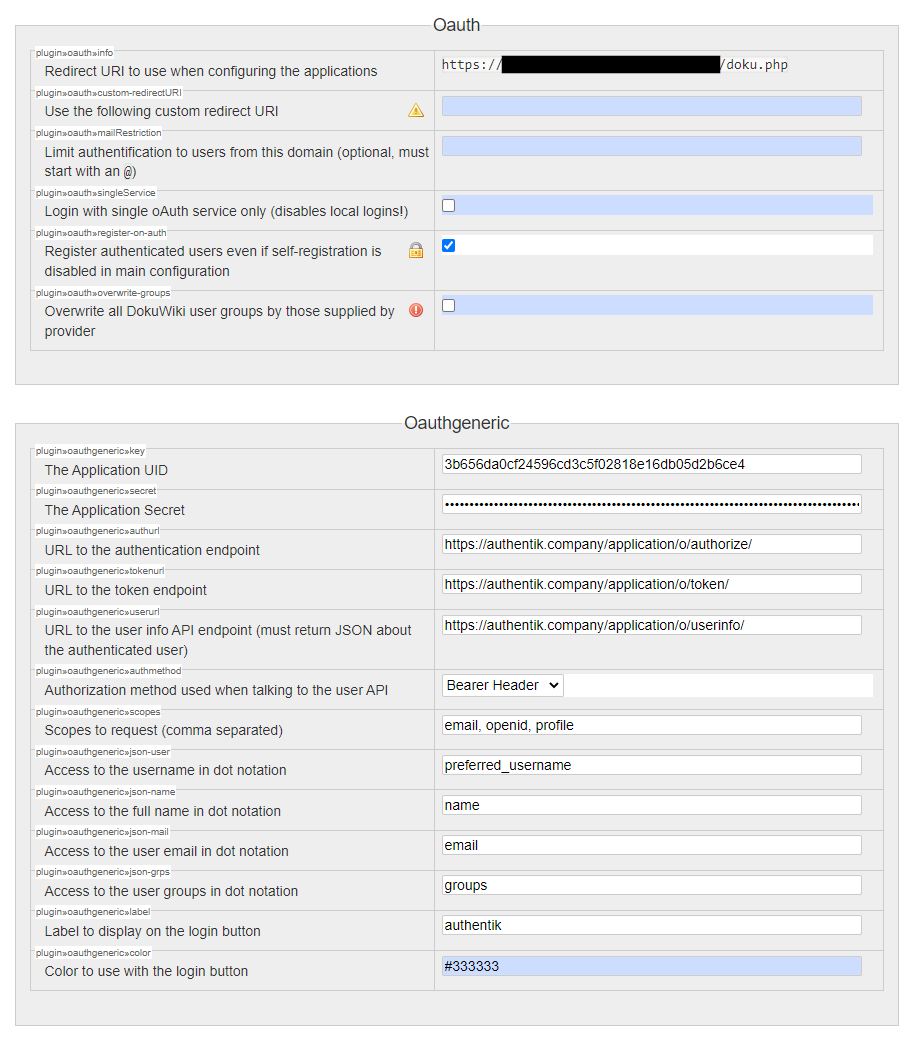
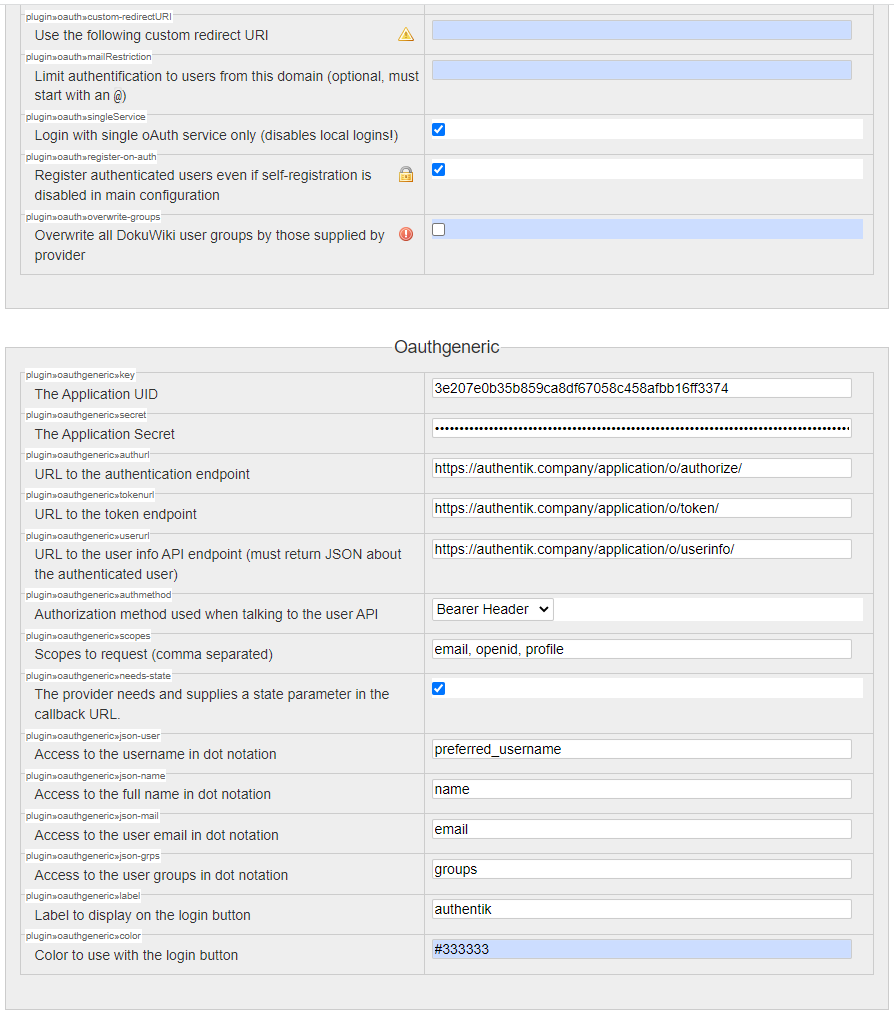
removed patch note since patch is upstream now

Changed region(s): [[0.0302, 0.336, 0.9966, 0.9468], [0.0, 0.0, 0.9966, 0.336], [0.9664, 0.3054, 0.9966, 0.336]]

diff --git a/website/integrations/services/dokuwiki/index.md b/website/integrations/services/dokuwiki/index.md
@@ -26,12 +26,6 @@ In DokuWiki, navigate to the _Extension Manager_ section in the _Administration_
 -   https://www.dokuwiki.org/plugin:oauth
 -   https://www.dokuwiki.org/plugin:oauthgeneric
 
-:::note
-At the time of writing _dokuwiki-plugin-oauthgeneric_ needs a patch to handle the state parameter in callback URL.
-
-https://github.com/mittelab/dokuwiki-plugin-oauthgeneric/commit/d13c9ae11cd8e21d2fe26f3884884b72a61489f2
-:::
-
 Navigate to _Configuration Settings_ section in the _Administration_ interface and change _Oauth_ and _Oauthgeneric_ options:
 
 For _Oauth_:
@@ -46,6 +40,7 @@ For  _Oauthgeneric_:
 -   plugin»oauthgeneric»userurl: https://authentik.company/application/o/userinfo/
 -   plugin»oauthgeneric»authmethod: Bearer Header
 -   plugin»oauthgeneric»scopes: email, openid, profile
+-   plugin»oauthgeneric»needs-state: checked
 -   plugin»oauthgeneric»json-user: preferred_username
 -   plugin»oauthgeneric»json-name: name
 -   plugin»oauthgeneric»json-mail: email
